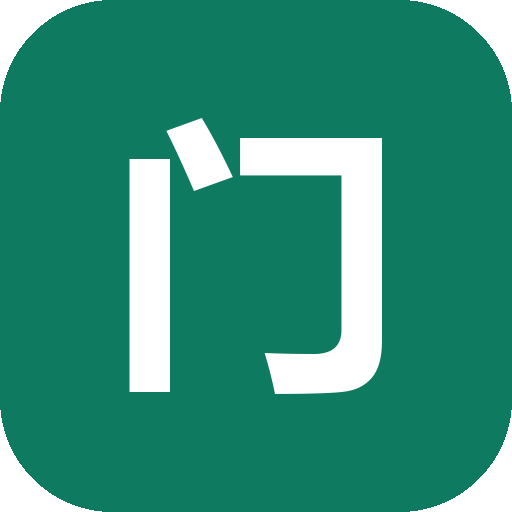
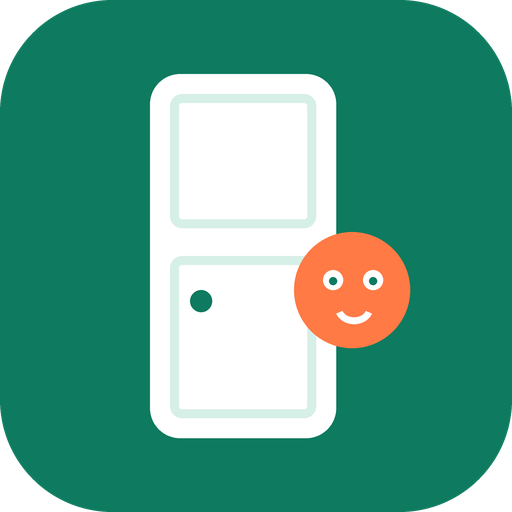
换用探门小脑袋图标，返回键回首页，降低定位授权打扰

Changed region(s): [[0.25, 0.125, 0.8125, 0.875]]

diff --git a/src/screens/Home.jsx b/src/screens/Home.jsx
@@ -5,6 +5,9 @@ import { describeWeather, fetchCurrentWeather, readWeatherCache, requestPosition
 import { APP_DOWNLOAD_URL } from '../lib/config.js'
 import Icon from '../components/Icons.jsx'
 
+const AUTO_REFRESH_MS = 6 * 60 * 60 * 1000
+const ASK_KEY = 'woyaochumen.geoAsk.v1'
+
 export default function Home({ lists, onOpen, onAbout }) {
   const [weather, setWeather] = useState(readWeatherCache)
   const [loading, setLoading] = useState(false)
@@ -13,6 +16,7 @@ export default function Home({ lists, onOpen, onAbout }) {
   async function loadWeather() {
     setLoading(true)
     try {
+      localStorage.setItem(ASK_KEY, String(Date.now()))
       const position = await requestPosition()
       const next = await fetchCurrentWeather(position.latitude, position.longitude)
       setWeather(next)
@@ -25,7 +29,21 @@ export default function Home({ lists, onOpen, onAbout }) {
   }
 
   useEffect(() => {
-    loadWeather()
+    const now = Date.now()
+    const lastAsk = Number(localStorage.getItem(ASK_KEY) || 0)
+    const savedAt = weather?.savedAt || 0
+    if (now - savedAt <= AUTO_REFRESH_MS) return
+    if (now - lastAsk < 24 * 60 * 60 * 1000) return
+    if (navigator.permissions?.query) {
+      navigator.permissions
+        .query({ name: 'geolocation' })
+        .then((state) => {
+          if (state.state !== 'denied') loadWeather()
+        })
+        .catch(() => loadWeather())
+    } else {
+      loadWeather()
+    }
   }, [])
 
   const info = weather ? describeWeather(weather.code) : null

diff --git a/src/App.jsx b/src/App.jsx
@@ -22,6 +22,15 @@ export default function App() {
     window.scrollTo(0, 0)
   }, [openId, aboutOpen, lockedId])
 
+  // 安卓返回键：清单页回到首页，而不是退出应用
+  useEffect(() => {
+    function onPop() {
+      setOpenId(null)
+    }
+    window.addEventListener('popstate', onPop)
+    return () => window.removeEventListener('popstate', onPop)
+  }, [])
+
   function addItem(scenarioId, groupId, name) {
     const value = name.trim()
     if (!value) return
@@ -56,14 +65,19 @@ export default function App() {
   }
 
   function openScenario(id) {
-    if (license.locked) setLockedId(id)
-    else setOpenId(id)
+    if (license.locked) {
+      setLockedId(id)
+      return
+    }
+    window.history.pushState({ scenario: id }, '')
+    setOpenId(id)
   }
 
   function buy() {
     markPurchased()
     setLicense(licenseStatus())
     if (lockedId) {
+      window.history.pushState({ scenario: lockedId }, '')
       setOpenId(lockedId)
       setLockedId(null)
     }
@@ -77,7 +91,7 @@ export default function App() {
         key={scenario.id}
         scenario={scenario}
         lists={db.lists[scenario.id] || {}}
-        onBack={() => setOpenId(null)}
+        onBack={() => window.history.back()}
         onAdd={(groupId, name) => addItem(scenario.id, groupId, name)}
         onRemove={(groupId, name) => removeItem(scenario.id, groupId, name)}
       />

diff --git a/index.html b/index.html
@@ -9,8 +9,8 @@
       content="我要出门：游泳、爬山、露营、出差、健身的极简出门清单，打开看一眼就出门。"
     />
     <link rel="manifest" href="./manifest.webmanifest" />
-    <link rel="icon" href="./icon.svg" type="image/svg+xml" />
-    <link rel="apple-touch-icon" href="./icon.svg" />
+    <link rel="icon" href="./icon-192.png" type="image/png" />
+    <link rel="apple-touch-icon" href="./icon-180.png" />
     <title>我要出门 · 出门前看一眼</title>
   </head>
   <body>

diff --git a/public/sw.js b/public/sw.js
@@ -1,5 +1,5 @@
-const CACHE = 'woyaochumen-v3'
-const SHELL = ['./', './index.html', './manifest.webmanifest', './icon.svg']
+const CACHE = 'woyaochumen-v4'
+const SHELL = ['./', './index.html', './manifest.webmanifest', './icon-192.png', './icon-512.png']
 
 self.addEventListener('install', (event) => {
   event.waitUntil(caches.open(CACHE).then((cache) => cache.addAll(SHELL)))
